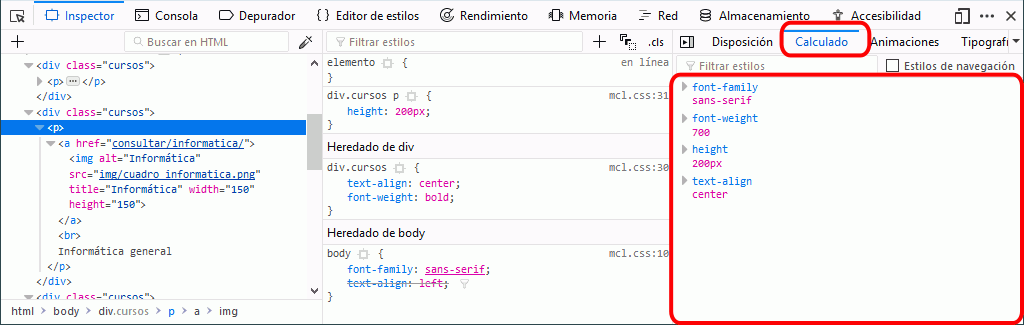
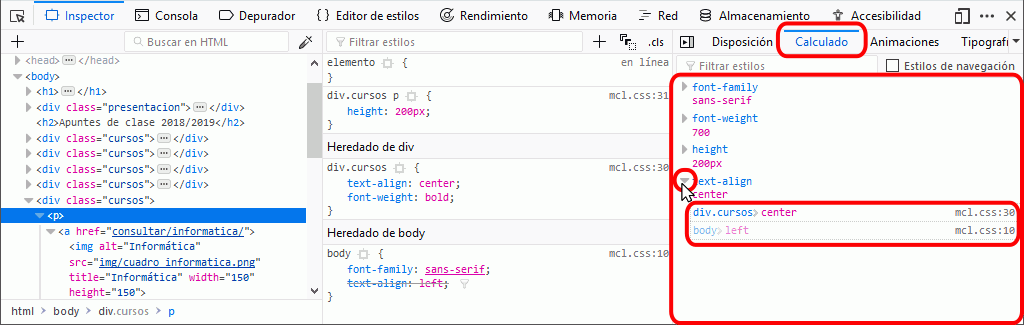
Añado vista de diseñoa adaptable en FF Herramientas de desarrollador

diff --git a/lecciones/ff-desarrollador-web.html b/lecciones/ff-desarrollador-web.html
@@ -33,6 +33,7 @@
             <li><a href="#ff-desarrollador-web-elementos">Herramientas</a></li>
           </ul>
         </li>
+        <li><a href="#ff-responsive-mode">Vista diseño adaptable</a></li>
         <li><a href="#ff-inspector">Inspector de elementos</a></li>
       </ul>
     </div>
@@ -91,7 +92,7 @@
 
       <ul>
         <li>mediante el atajo de teclado <span class="soft-atajo-teclado">Ctrl+May+I</span> o la tecla <span class="soft-atajo-teclado">F12</span></li>
-        <li>mediante el menú <span class="soft-menu">Herramientas &gt; Desarrollador web &gt; Alternar herramientas</span> (para mostrar el menú hay que pulsar la tecla <span class="soft-atajo-teclado">Alt</span>) podemos abrir tanto la ventana de herramientas como herramientas individuales:
+        <li>mediante el menú <span class="soft-menu">Herramientas &gt; Desarrollador web &gt; Alternar herramientas</span> (para mostrar el menú, pulse la tecla <span class="soft-atajo-teclado">Alt</span>) podemos abrir tanto la ventana de herramientas como herramientas individuales:
           <p class="captura">
             <img src="../img/firefox/ff-desarrollador-abrir-1.png" alt="Herramientas para Desarrolador Web" width="1024" height="210" />
           </p>
@@ -141,13 +142,84 @@
     </section>
   </section>
 
+  <section id="ff-responsive-mode">
+    <h2>Vista de diseño adaptable (<i>responsive mode</i>)</h2>
+
+    <p>La vista de diseño adaptable (en inglés, <i>responsive mode</i>) permite probar en Firefox cómo se visualizaría la página web en diferentes dispositivos móviles.</p>
+
+    <p>Puede consultar información detallada en <a href="https://developer.mozilla.org/en-US/docs/Tools/Responsive_Design_Mode">MDN: Responsive Design Mode</a>.</p>
+
+    <ul>
+      <li>Para abrir la vista de diseño adaptable, haga clic en el icono situado en la parte derecha del menú de las herramientas de desarrollador (el icono representa un móvil y un tablet):
+        <p class="captura">
+          <img src="../img/firefox/ff-desarrollador-responsive-1.png" alt="Herramientas para Desarrolador Web. Vista de diseño adaptable" width="1024" height="576" />
+        </p>
+      </li>
+      <li>Para cerrar la vista de diseño adaptable, puede hacer clic en el icono que abre la vista o hacer clic en el icono de aspa del menú:
+        <p class="captura">
+          <img src="../img/firefox/ff-desarrollador-responsive-menu-9.png" alt="Herramientas para Desarrolador Web. Menú de la vista de diseño adaptable" width="1024" height="50" />
+        </p>
+      </li>
+      <li>Puede modificar manualmente el tamaño del área de visualización del dispositivo emulado:
+        <p class="captura">
+          <img src="../img/firefox/ff-desarrollador-responsive-2.png" alt="Herramientas para Desarrolador Web. Vista de diseño adaptable" width="1024" height="450" />
+        </p>
+      </li>
+      <li>El menú de la vista de diseño adaptable permite elegir las características del dispositivo emulado:
+        <ul>
+          <li>Puede elegir un dispositivo específico de una lista (en la que se pueden añadir más dispositivos):
+            <p class="captura">
+              <img src="../img/firefox/ff-desarrollador-responsive-menu-1.png" alt="Herramientas para Desarrolador Web. Menú de la vista de diseño adaptable" width="1024" height="50" />
+            </p>
+          </li>
+          <li>Puede especificar un tamaño concreto:
+            <p class="captura">
+              <img src="../img/firefox/ff-desarrollador-responsive-menu-2.png" alt="Herramientas para Desarrolador Web. Menú de la vista de diseño adaptable" width="1024" height="50" />
+            </p>
+          </li>
+          <li>Puede cambiar la orientación del dispositivo (en vertical o apaisado):
+            <p class="captura">
+              <img src="../img/firefox/ff-desarrollador-responsive-menu-3.png" alt="Herramientas para Desarrolador Web. Menú de la vista de diseño adaptable" width="1024" height="50" />
+            </p>
+          </li>
+          <li>Puede cambiar la densidad de píxeles del dispositivo:
+            <p class="captura">
+              <img src="../img/firefox/ff-desarrollador-responsive-menu-4.png" alt="Herramientas para Desarrolador Web. Menú de la vista de diseño adaptable" width="1024" height="50" />
+            </p>
+          </li>
+          <li>Puede simular diferentes condiciones de red:
+            <p class="captura">
+              <img src="../img/firefox/ff-desarrollador-responsive-menu-5.png" alt="Herramientas para Desarrolador Web. Menú de la vista de diseño adaptable" width="1024" height="50" />
+            </p>
+          </li>
+          <li>Puede simular una pantalla táctil:
+            <p class="captura">
+              <img src="../img/firefox/ff-desarrollador-responsive-menu-6.png" alt="Herramientas para Desarrolador Web. Menú de la vista de diseño adaptable" width="1024" height="50" />
+            </p>
+          </li>
+          <li>Puede hacer capturas de la pantalla emulada (la captura se guarda automáticamente en la carpeta de descargas):
+            <p class="captura">
+              <img src="../img/firefox/ff-desarrollador-responsive-menu-7.png" alt="Herramientas para Desarrolador Web. Menú de la vista de diseño adaptable" width="1024" height="50" />
+            </p>
+          </li>
+          <li>Puede elegir algunas opciones adicionales de la vista de diseño adaptable:
+            <p class="captura">
+              <img src="../img/firefox/ff-desarrollador-responsive-menu-8.png" alt="Herramientas para Desarrolador Web. Menú de la vista de diseño adaptable" width="1024" height="50" />
+            </p>
+          </li>
+        </ul>
+      </li>
+    </ul>
+
+  </section>
+
   <section id="ff-inspector">
     <h2>Inspector de elementos</h2>
 
     <p>El inspector de elementos permite seleccionar visualmente un elemento de una página y ver el código html del elemento elegido y las propiedades CSS que se le aplican.</p>
 
     <ul>
-      <li>Para seleccionar elementos, hay que hacer clic en el selector situado en el extermo izquierdo de la barra de menú:
+      <li>Para seleccionar elementos, haga clic en el icono situado en el extermo izquierdo de la barra de menú:
         <p class="captura">
           <img src="../img/firefox/ff-desarrollador-inspector-1.png" alt="Herramientas para Desarrolador Web. Inspector" width="1024" height="370" />
         </p>
@@ -174,7 +246,7 @@
       </li>
       <li>En la parte del css, la información se puede ver de diferentes formas.
         <ul>
-          <li>En la pestaña <strong>Reglas</strong>, se muestran los fragmentos de la hoja de estilo que define las propiedades que se aplican al elemento.
+          <li>En la parte central, se muestran los fragmentos de la hoja de estilo que define las propiedades que se aplican al elemento.
             <p>En el ejemplo siguiente, en el que se ha seleccionado un párrafo <span class="html-eti">&lt;p&gt;</span>, se muestran todas las propiedades que afecta al párrafo ordenadas por reglas. Para cada regla se muestra el selector, el nombre de la hoja de estilo y el número de línea en la que se encuentra y las propiedades.</p>
             <p class="captura">
               <img src="../img/firefox/ff-desarrollador-inspector-5.png" alt="Herramientas para Desarrolador Web. Inspector" width="1024" height="387" />
@@ -184,7 +256,7 @@
               <img src="../img/firefox/ff-desarrollador-inspector-6.png" alt="Herramientas para Desarrolador Web. Inspector" width="1024" height="387" />
             </p>
           </li>
-          <li>En la pestaña <strong>Calculado</strong>, se muestra la misma información, pero ordenada por propiedades. Haciendo clic en los triángulos laterales, se detalla la hoja de estilo y regla que ha establecido la propiedad.
+          <li>En la pestaña <strong>Calculado</strong> de la parte derecha, se muestra la misma información, pero ordenada por propiedades. Haciendo clic en los triángulos laterales, se detalla la hoja de estilo y regla que ha establecido la propiedad.
             <p class="captura">
               <img src="../img/firefox/ff-desarrollador-inspector-7.png" alt="Herramientas para Desarrolador Web. Inspector" width="1008" height="490" />
             </p>
@@ -195,7 +267,7 @@
 
     <hr class="corta" />
 
-    <p>En la pestaña <strong>Reglas</strong>, se pueden modificar las hojas de estilo y ver el resultado inmediatamente. Estas modificaciones son "virtuales" y al actualizar la página se vuelve a la vista original.</p>
+    <p>En la parte central, se pueden modificar las hojas de estilo y ver el resultado inmediatamente. Estas modificaciones son "virtuales" y al actualizar la página se vuelve a la vista original.</p>
     <ul>
       <li>Puede modificar el valor de una propiedad haciendo doble clic en el valor y escribiendo el nuevo valor:
         <p class="captura">
@@ -216,7 +288,7 @@
   </section>
 
   <footer>
-    <p class="ultmod">Última modificación de esta página: 29 de enero de 2018</p>
+    <p class="ultmod">Última modificación de esta página: 9 de enero de 2019</p>
 
     <p class="licencia">
       <a rel="license" href="https://creativecommons.org/licenses/by-sa/4.0/deed.es_ES"><img src="../varios/iconos/icono-cc-by-sa.svg" alt="Licencia Creative Commons" title="Licencia Creative Commons BY-SA" width="120" height="42" /></a><br />

diff --git a/index.html b/index.html
@@ -162,7 +162,7 @@
   </div>
 
   <footer>
-    <p class="ultmod">Última modificación de alguna página de este curso: 26 de diciembre de 2018</p>
+    <p class="ultmod">Última modificación de alguna página de este curso: 9 de enero de 2019</p>
 
     <p class="licencia">
       <a rel="license" href="https://creativecommons.org/licenses/by-sa/4.0/deed.es_ES"><img src="varios/iconos/icono-cc-by-sa.svg" alt="Licencia Creative Commons" title="Licencia Creative Commons BY-SA" width="120" height="42" /></a><br />
